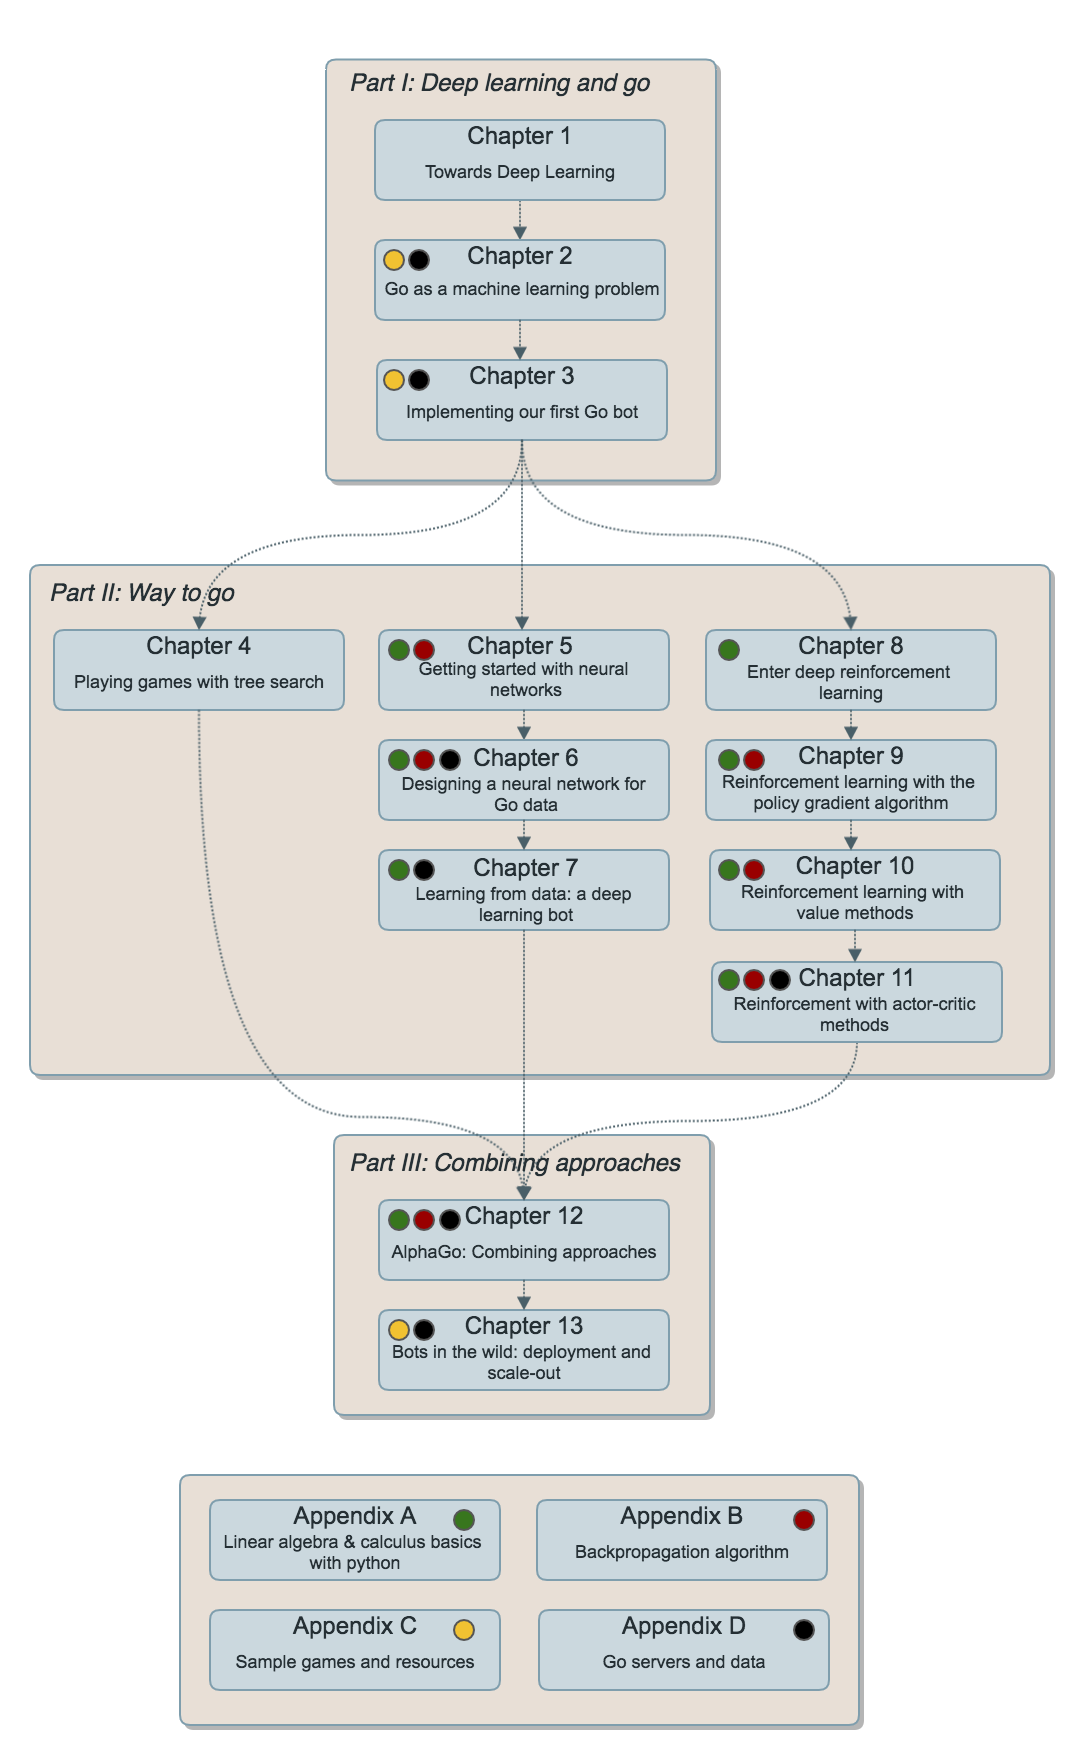
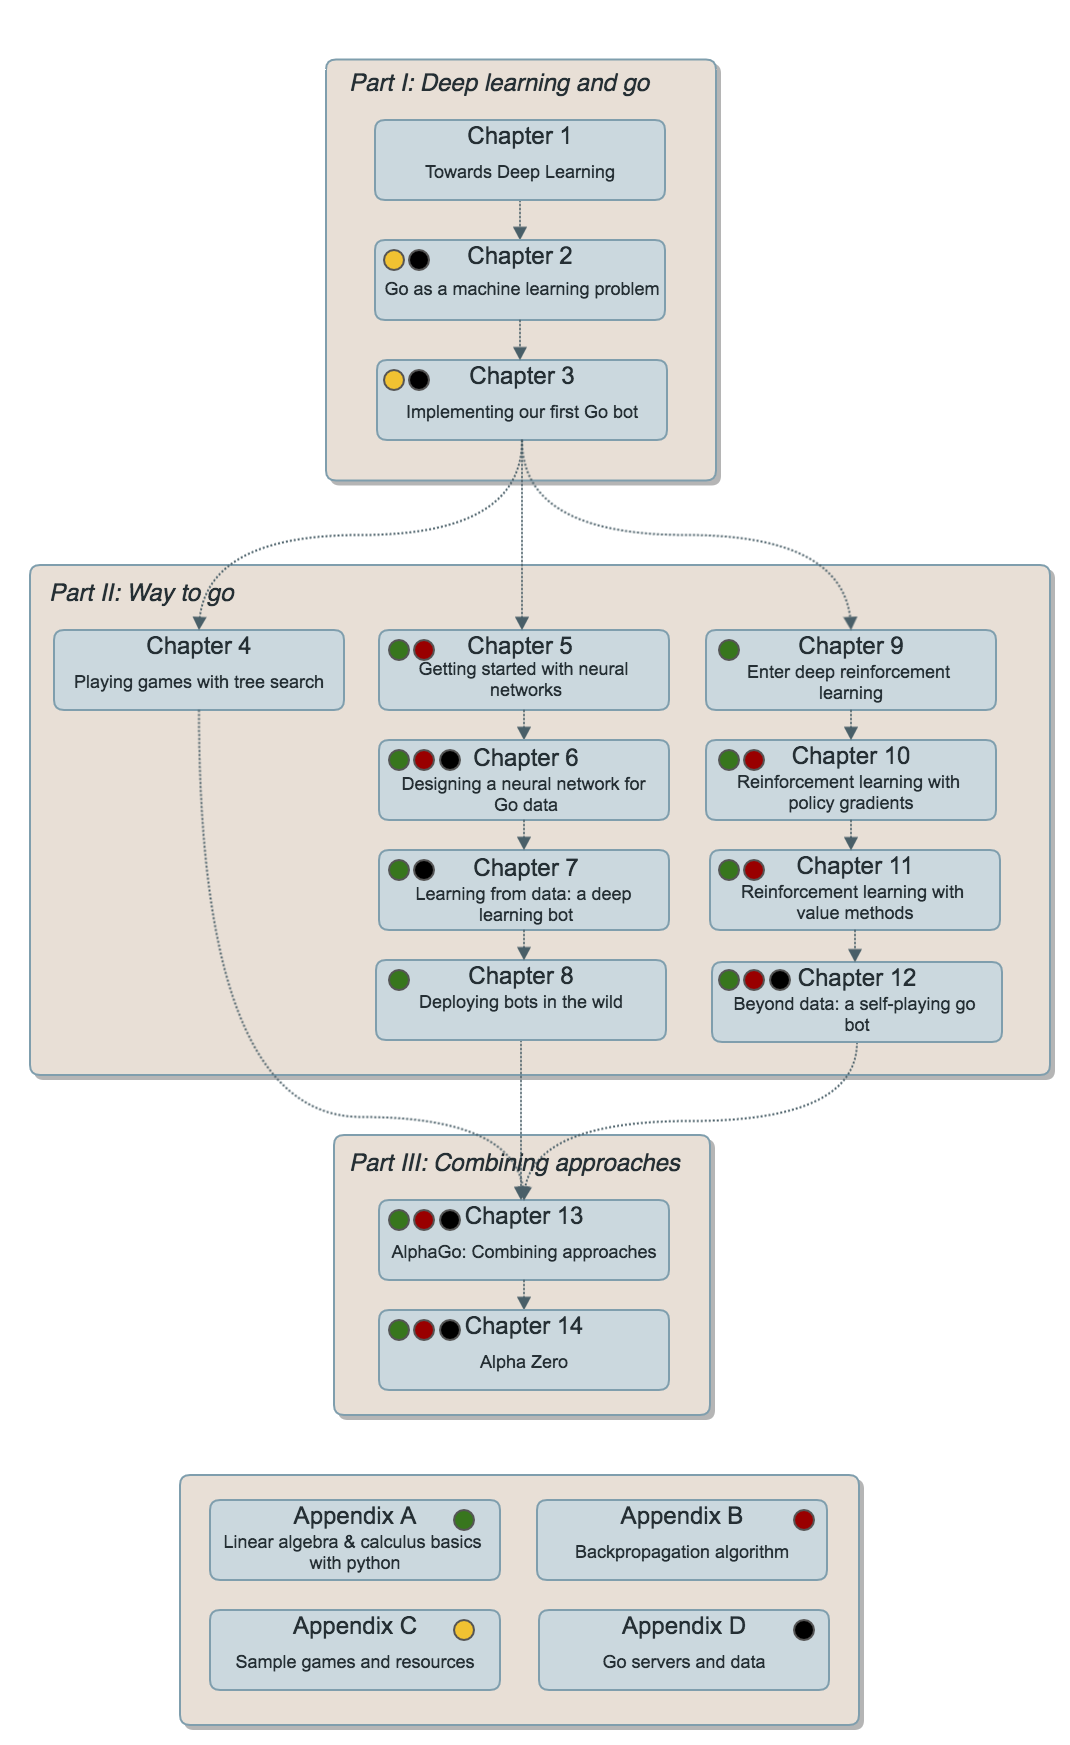
update readme

diff --git a/README.md b/README.md
@@ -1,4 +1,4 @@
-# Deep Learning and the Game of Go
+# Deep Learning and the Game of Go [![Build Status](https://travis-ci.org/maxpumperla/deep_learning_and_the_game_of_go.svg?branch=master)](https://travis-ci.org/maxpumperla/deep_learning_and_the_game_of_go)
 
 [Code](https://github.com/maxpumperla/deep_learning_and_the_game_of_go/tree/master/code), sample chapters and notebooks for the book "Deep Learning and the Game of Go" (Manning), available for early access [here](https://www.manning.com/books/deep-learning-and-the-game-of-go).
 
@@ -10,7 +10,7 @@ The book is all about getting you started to create your own bots. To make the e
 
 - **Chapter 4** A tiny tree search bot on a 5x5 board [here](https://www.badukai.com/demos/static/play_mcts_55.html).
 - **Chapter 7** A full 19x19 bot powered by a deep neural network trained to predict human moves [here](https://www.badukai.com/demos/static/play_predict_19.html)
-- **Chapter 9** A bot playing on a 9x9 board, using policy gradients, [here](https://www.badukai.com/demos/static/play_pg_99.html) 
+- **Chapter 9** A bot playing on a 9x9 board, using policy gradients, [here](https://www.badukai.com/demos/static/play_pg_99.html)
 
 These demos will be available in the [liveBook](https://www.manning.com/books/deep-learning-and-the-game-of-go) version of the book as well.
 
@@ -18,19 +18,28 @@ These demos will be available in the [liveBook](https://www.manning.com/books/de
 
 ## Table of Contents
 
-1. Towards deep learning: a machine learning introduction
-2. Machine learning for go
-3. Representing a game of go: a simple search bot
-4. Search and the early years of game AI
+1. Toward deep learning: a machine learning introduction
+2. Go as a machine learning problem
+3. Implementing your first Go bot
+4. Playing games with tree search
 5. Getting started with neural networks
 6. Designing a neural network for Go data
 7. Learning from data: a deep learning bot
-8. Enter deep reinforcement learning
-9. Reinforcement learning with the policy gradient algorithm
-10. Reinforcement learning with value methods
-11. Reinforcement with actor-critic methods
-12. AlphaGo: Combining approaches
-13. Bots in the wild: deployment and scale-out
+8. Deploying bots in the wild
+9. Enter deep reinforcement learning
+10. Reinforcement learning with policy gradients
+11. Reinforcement learning with value methods
+12. Reinforcement learning with actor-critic methods
+13. AlphaGo: Combining approaches
+14. AlphaGoZero and AlphaZero: Combining approaches
+
+Appendices
+
+- A. Mathematical foundations with Python
+- B. The backpropagation algorithm
+- C. Go programs and servers
+- D. Training and deploying bots using Amazon Web Services
+- E. Submitting a bot to the Online Go Server (OGS)
 
 ![chapter_succession](chapter_succession.png)
 
